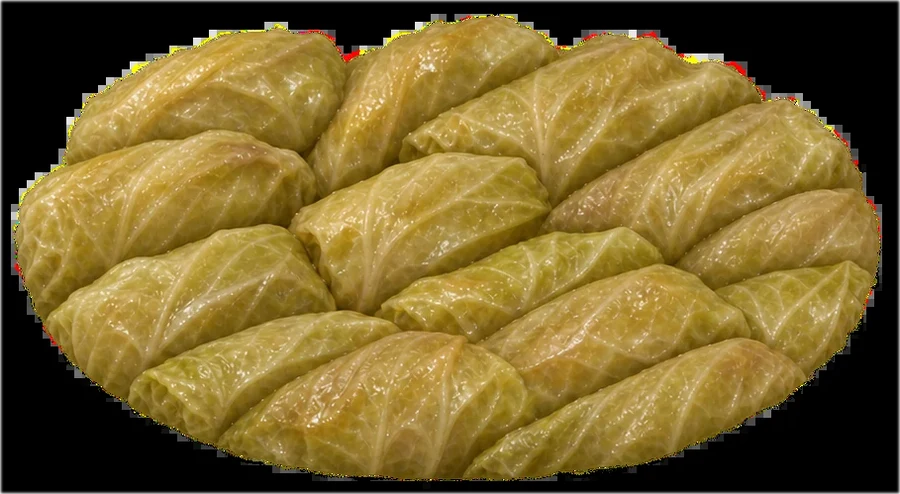
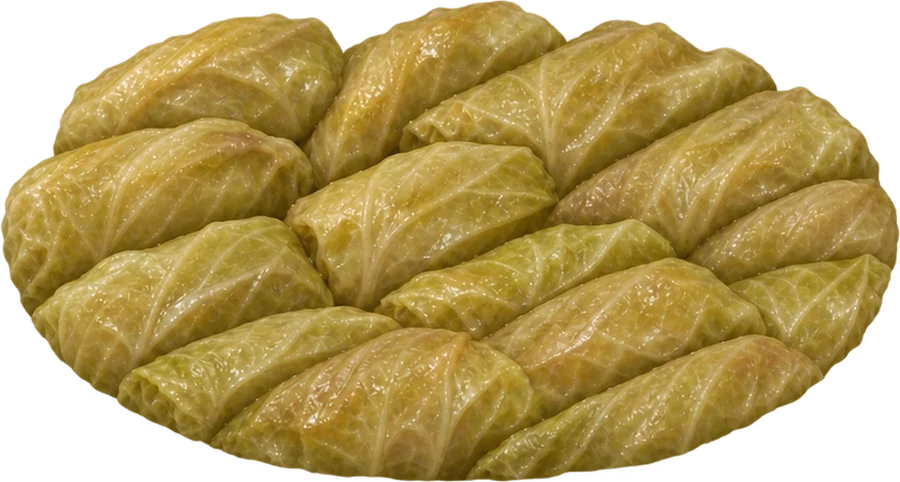
Faze sarmi: originalna providna pozadina, bez maskiranja
Claude-Session: https://claude.ai/code/session_01LvBFGzeMfHTaYJ7uVyqQ2u

diff --git a/js/sarma-tray.js b/js/sarma-tray.js
@@ -227,7 +227,7 @@ function waterOf(tr){return Math.max(0,Math.min(1,(tr._water||0)));}
 function addWater(tr,units){tr._water=Math.min(1,waterOf(tr)+units/WATER_FULL);tr.dataset.sarmaWater=tr._water.toFixed(3);kick(tr,4);try{CooksterSave.schedule();}catch(e){}}
 // ---- COOKING: while the tray stands in the OVEN the sarmas simmer; after about 60 seconds they are cooked. The picture of the cooked sarmas (assets/sarma/pleh_kuvane.webp, made in ChatGPT) replaces the raw ones
 // little by little (cross-fade) and stays when the tray is taken out of the oven. The juice (water) slowly boils away a little while cooking. ----
-var COOK_SECONDS=60,BURN_SECONDS=40,cookImgs=[1,2,3].map(function(n){var i=new Image();i.src='assets/sarma/pleh_kuvane_'+n+'.webp?v=1';return i;});
+var COOK_SECONDS=60,BURN_SECONDS=40,cookImgs=[1,2,3].map(function(n){var i=new Image();i.src='assets/sarma/pleh_kuvane_'+n+'.webp?v=2';return i;});
 function burnOf(tr){return Math.max(0,Math.min(1,tr._burn||0));}
 function cookOf(tr){return Math.max(0,Math.min(1,tr._cook||0));}
 setInterval(function(){

diff --git a/index.html b/index.html
@@ -274,7 +274,7 @@
 <script src="js/neighbor.js?v=18"></script>
 <script src="js/trash.js?v=9"></script>
 <script src="js/sarma.js?v=22"></script>
-<script src="js/sarma-tray.js?v=26"></script>
+<script src="js/sarma-tray.js?v=27"></script>
 <script src="js/mast.js?v=10"></script>
 <script src="js/wall-hooks.js?v=12"></script>
 <script src="js/wall-bags.js?v=35"></script>
